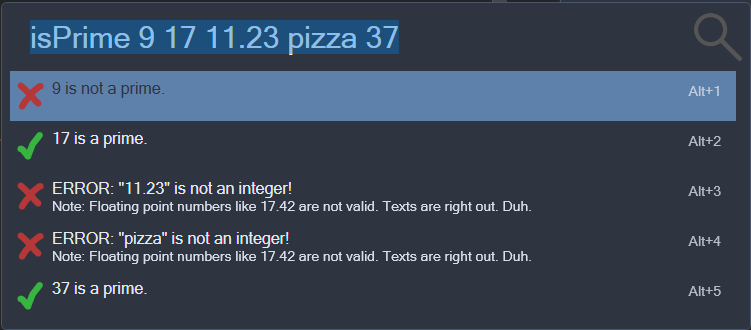
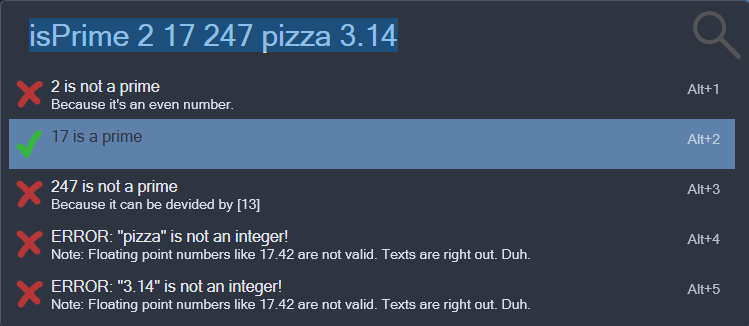
update screenshot and readme

diff --git a/README.md b/README.md
@@ -8,6 +8,7 @@ A [Flow Launcher](https://github.com/Flow-Launcher/Flow.Launcher) port of my ori
 ## About
 
 Checks if the given integers are prime numbers.
+If the number is not a prime it tells you by which other number it can be devided.
 
 The screenshot shows all relevant edge cases.
 In case you are still unsure about what integers are consider consulting your favourite math tutor.
@@ -49,6 +50,18 @@ The easiest way to install it is to open a CLI like Powershell, navigate into th
 | Keyword                                                          | Description                                 |
 | ---------------------------------------------------------------- | ------------------------------------------- |
 | `isPrime {number_0} {number_1} {number_N}` | check if the given values are prime numbers |
+
+Floating point numbers and text are both treated as invalid since they're no integers.
+Checking if 3.14 or "pizza" is prime seems kind of nonsense to me.
+
+
+## Changelog
+
+- v1.0 
+    + initial wox port
+- v1.1
+    + add an info message by which number the given integer can be devided
+    + small code cleanup
 
 
 ## Problems, errors and feature requests
